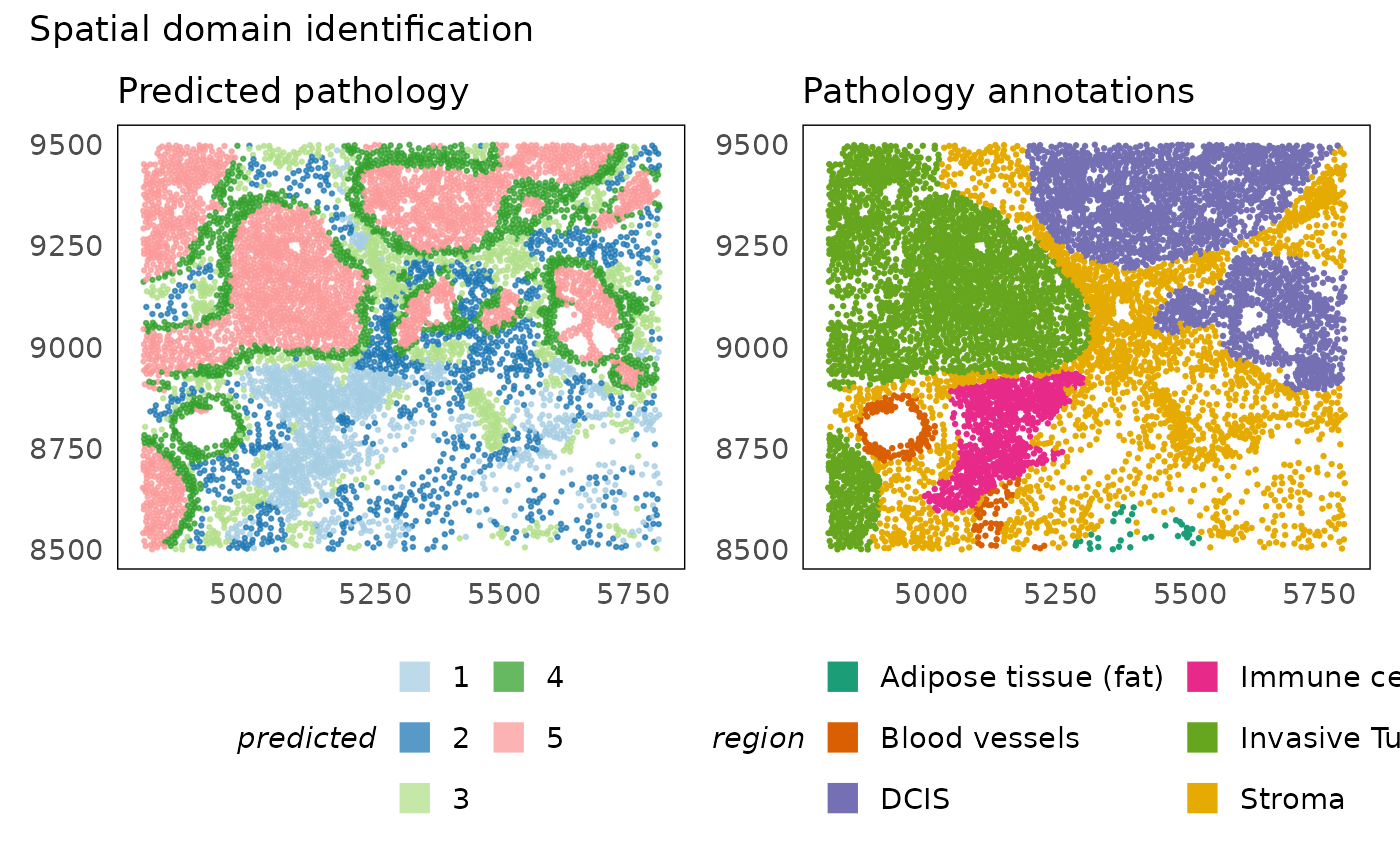
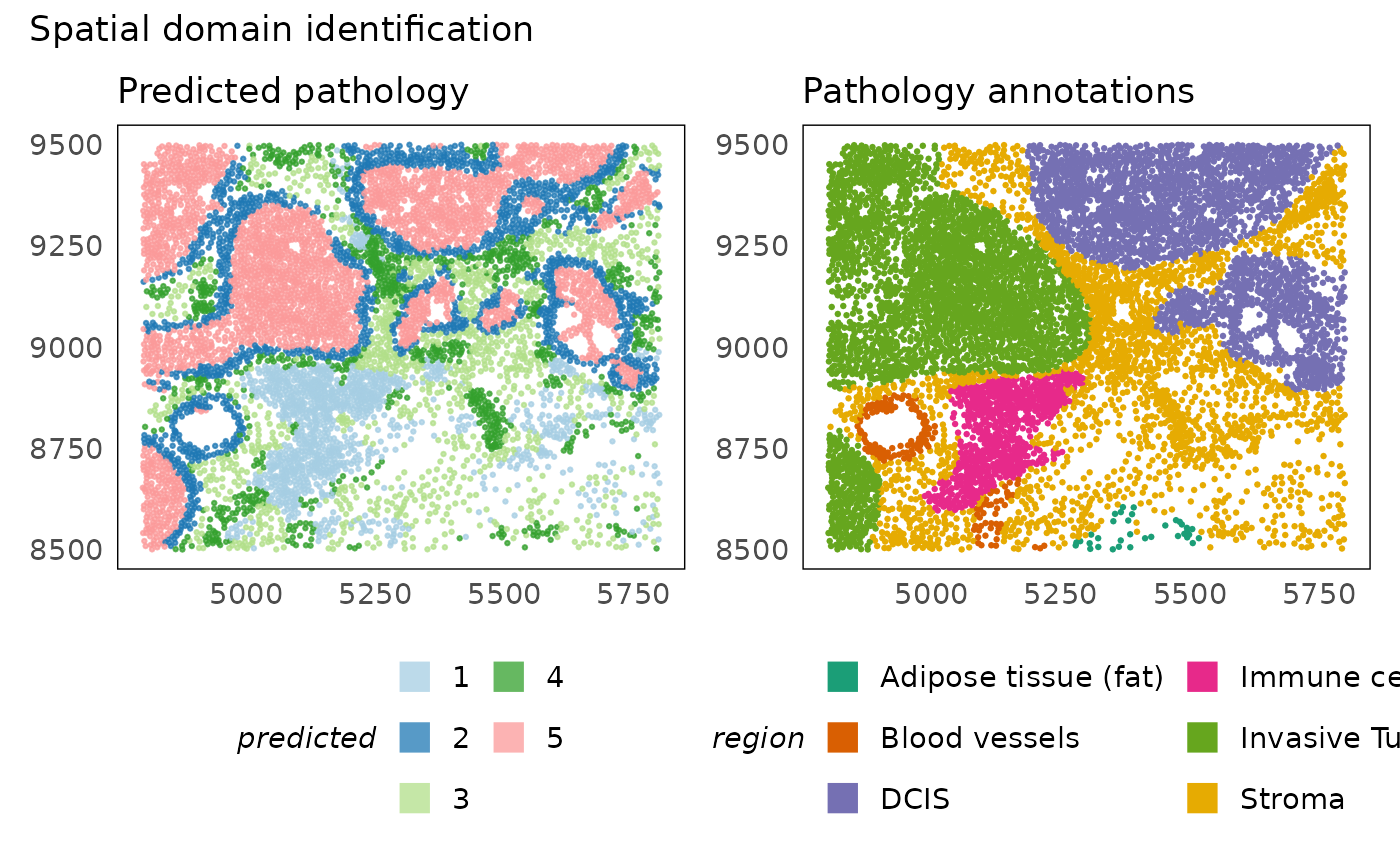
Deploying to gh-pages from @ bhuvad/XeniumSpatialAnalysisWorkshop@adf0f4957427c70c5a9ef7c6897f5cc746d5122c 🚀

Changed region(s): [[0.0921, 0.1561, 0.4914, 0.6555]]

diff --git a/articles/workflow_spatial_xenium.html b/articles/workflow_spatial_xenium.html
@@ -264,10 +264,11 @@ tissue below.</p>
 <div class="sourceCode" id="cb11"><pre class="downlit sourceCode r">
 <code class="sourceCode R"><span><span class="kw"><a href="https://rdrr.io/r/base/library.html" class="external-link">library</a></span><span class="op">(</span><span class="va"><a href="https://ggplot2.tidyverse.org" class="external-link">ggplot2</a></span><span class="op">)</span></span>
 <span><span class="kw"><a href="https://rdrr.io/r/base/library.html" class="external-link">library</a></span><span class="op">(</span><span class="va"><a href="https://patchwork.data-imaginist.com" class="external-link">patchwork</a></span><span class="op">)</span></span>
+<span><span class="kw"><a href="https://rdrr.io/r/base/library.html" class="external-link">library</a></span><span class="op">(</span><span class="va"><a href="https://bhuvad.github.io/SpaNorm" class="external-link">SpaNorm</a></span><span class="op">)</span></span>
 <span></span>
 <span><span class="co"># set default point size to 0.5 for this report</span></span>
 <span><span class="fu"><a href="https://ggplot2.tidyverse.org/reference/update_defaults.html" class="external-link">update_geom_defaults</a></span><span class="op">(</span>geom <span class="op">=</span> <span class="st">"point"</span>, new <span class="op">=</span> <span class="fu"><a href="https://rdrr.io/r/base/list.html" class="external-link">list</a></span><span class="op">(</span>size <span class="op">=</span> <span class="fl">0.5</span><span class="op">)</span><span class="op">)</span></span>
-<span><span class="fu">plotSpatial</span><span class="op">(</span><span class="va">idc</span>, colour <span class="op">=</span> <span class="va">region</span><span class="op">)</span> <span class="op">+</span></span>
+<span><span class="fu"><a href="https://bhuvad.github.io/spaNorm/reference/plotSpatial.html" class="external-link">plotSpatial</a></span><span class="op">(</span><span class="va">idc</span>, colour <span class="op">=</span> <span class="va">region</span><span class="op">)</span> <span class="op">+</span></span>
 <span>  <span class="fu"><a href="https://ggplot2.tidyverse.org/reference/scale_brewer.html" class="external-link">scale_colour_brewer</a></span><span class="op">(</span>palette <span class="op">=</span> <span class="st">"Dark2"</span><span class="op">)</span> <span class="op">+</span></span>
 <span>  <span class="co"># improve legend visibility</span></span>
 <span>  <span class="fu"><a href="https://ggplot2.tidyverse.org/reference/guides.html" class="external-link">guides</a></span><span class="op">(</span>colour <span class="op">=</span> <span class="fu"><a href="https://ggplot2.tidyverse.org/reference/guide_legend.html" class="external-link">guide_legend</a></span><span class="op">(</span>override.aes <span class="op">=</span> <span class="fu"><a href="https://rdrr.io/r/base/list.html" class="external-link">list</a></span><span class="op">(</span>shape <span class="op">=</span> <span class="fl">15</span>, size <span class="op">=</span> <span class="fl">5</span><span class="op">)</span><span class="op">)</span><span class="op">)</span></span></code></pre></div>
@@ -396,7 +397,6 @@ with these thresholds and adjust based on other metrics and
 visualisations.</p>
 <div class="sourceCode" id="cb18"><pre class="downlit sourceCode r">
 <code class="sourceCode R"><span><span class="kw"><a href="https://rdrr.io/r/base/library.html" class="external-link">library</a></span><span class="op">(</span><span class="va"><a href="https://github.com/DavisLaboratory/standR" class="external-link">standR</a></span><span class="op">)</span></span>
-<span><span class="kw"><a href="https://rdrr.io/r/base/library.html" class="external-link">library</a></span><span class="op">(</span><span class="va"><a href="https://bhuvad.github.io/SpaNorm" class="external-link">SpaNorm</a></span><span class="op">)</span></span>
 <span></span>
 <span><span class="co"># t-SNE plot</span></span>
 <span><span class="va">p1</span> <span class="op">=</span> <span class="fu"><a href="https://rdrr.io/pkg/standR/man/plotDR.html" class="external-link">plotDR</a></span><span class="op">(</span><span class="va">idc</span>, dimred <span class="op">=</span> <span class="st">"TSNE"</span>, colour <span class="op">=</span> <span class="va">sum</span>, alpha <span class="op">=</span> <span class="fl">0.75</span>, size <span class="op">=</span> <span class="fl">0.5</span><span class="op">)</span> <span class="op">+</span></span>
@@ -722,7 +722,8 @@ the cell type probabilities.</p>
 <div class="sourceCode" id="cb34"><pre class="downlit sourceCode r">
 <code class="sourceCode R"><span><span class="kw"><a href="https://rdrr.io/r/base/library.html" class="external-link">library</a></span><span class="op">(</span><span class="va"><a href="https://github.com/DavisLaboratory/hoodscanR" class="external-link">hoodscanR</a></span><span class="op">)</span></span>
 <span></span>
-<span><span class="co"># find neighbouring cells</span></span>
+<span><span class="co"># find neighbouring cells using an approximate nearest neighbour search</span></span>
+<span><span class="fu"><a href="https://rdrr.io/r/base/Random.html" class="external-link">set.seed</a></span><span class="op">(</span><span class="fl">1000</span><span class="op">)</span></span>
 <span><span class="va">nb_cells</span> <span class="op">=</span> <span class="fu"><a href="https://davislaboratory.github.io/hoodscanR/reference/findNearCells.html" class="external-link">findNearCells</a></span><span class="op">(</span><span class="va">idc</span>, k <span class="op">=</span> <span class="fl">100</span>, anno_col <span class="op">=</span> <span class="st">"cell_type"</span><span class="op">)</span></span>
 <span><span class="va">nb_cells</span><span class="op">$</span><span class="va">cells</span><span class="op">[</span><span class="fl">1</span><span class="op">:</span><span class="fl">5</span>, <span class="fl">1</span><span class="op">:</span><span class="fl">5</span><span class="op">]</span></span></code></pre></div>
 <pre><code><span><span class="co">##            nearest_cell_1 nearest_cell_2 nearest_cell_3 nearest_cell_4</span></span>
@@ -776,7 +777,7 @@ but advanced users can cluster the matrix directly using their preferred
 method.</p>
 <div class="sourceCode" id="cb43"><pre class="downlit sourceCode r">
 <code class="sourceCode R"><span><span class="co"># identify spatial domains based on neighbourhood composition (5 clusters)</span></span>
-<span><span class="fu"><a href="https://rdrr.io/r/base/Random.html" class="external-link">set.seed</a></span><span class="op">(</span><span class="fl">100</span><span class="op">)</span></span>
+<span><span class="fu"><a href="https://rdrr.io/r/base/Random.html" class="external-link">set.seed</a></span><span class="op">(</span><span class="fl">1000</span><span class="op">)</span></span>
 <span><span class="va">idc</span> <span class="op">=</span> <span class="fu"><a href="https://davislaboratory.github.io/hoodscanR/reference/clustByHood.html" class="external-link">clustByHood</a></span><span class="op">(</span><span class="va">idc</span>, pm_cols <span class="op">=</span> <span class="fu"><a href="https://rdrr.io/pkg/BiocGenerics/man/row_colnames.html" class="external-link">colnames</a></span><span class="op">(</span><span class="va">neighbourhoods</span><span class="op">)</span>, k <span class="op">=</span> <span class="fl">5</span>, val_names <span class="op">=</span> <span class="st">"clusters"</span><span class="op">)</span></span>
 <span><span class="co"># plot predictions</span></span>
 <span><span class="va">p1</span> <span class="op">=</span> <span class="fu"><a href="https://bhuvad.github.io/spaNorm/reference/plotSpatial.html" class="external-link">plotSpatial</a></span><span class="op">(</span><span class="va">idc</span>, colour <span class="op">=</span> <span class="va">clusters</span>, alpha <span class="op">=</span> <span class="fl">0.75</span><span class="op">)</span> <span class="op">+</span></span>
@@ -804,9 +805,9 @@ used to generate the domains.</p>
 <div class="sourceCode" id="cb44"><pre class="downlit sourceCode r">
 <code class="sourceCode R"><span><span class="fu"><a href="https://davislaboratory.github.io/hoodscanR/reference/plotProbDist.html" class="external-link">plotProbDist</a></span><span class="op">(</span><span class="va">idc</span>, pm_cols <span class="op">=</span> <span class="fu"><a href="https://rdrr.io/pkg/BiocGenerics/man/row_colnames.html" class="external-link">colnames</a></span><span class="op">(</span><span class="va">neighbourhoods</span><span class="op">)</span>, by_cluster <span class="op">=</span> <span class="cn">TRUE</span>, plot_all <span class="op">=</span> <span class="cn">TRUE</span>, show_clusters <span class="op">=</span> <span class="fu"><a href="https://rdrr.io/r/base/character.html" class="external-link">as.character</a></span><span class="op">(</span><span class="fu"><a href="https://rdrr.io/r/base/seq.html" class="external-link">seq</a></span><span class="op">(</span><span class="fl">5</span><span class="op">)</span><span class="op">)</span><span class="op">)</span></span></code></pre></div>
 <p><img src="workflow_spatial_xenium_files/figure-html/unnamed-chunk-23-1.png" width="700"></p>
-<p>we see that cluster 3 is entirely defined by the presence of
-malignant cells while cluster 5 captures the tumour lining epithelial
-cells as well as fibroblasts. Cluster 2 is composed of the immune cells,
+<p>we see that cluster 5 is entirely defined by the presence of
+malignant cells while cluster 2 captures the tumour lining epithelial
+cells as well as fibroblasts. Cluster 3 is composed of the immune cells,
 particularly T cells, B cells and macrophages, indicating the formation
 of lymphoid aggregates. Lymphoid aggregates are interesting structures
 in the context of solid cancers, and depending on their expression
